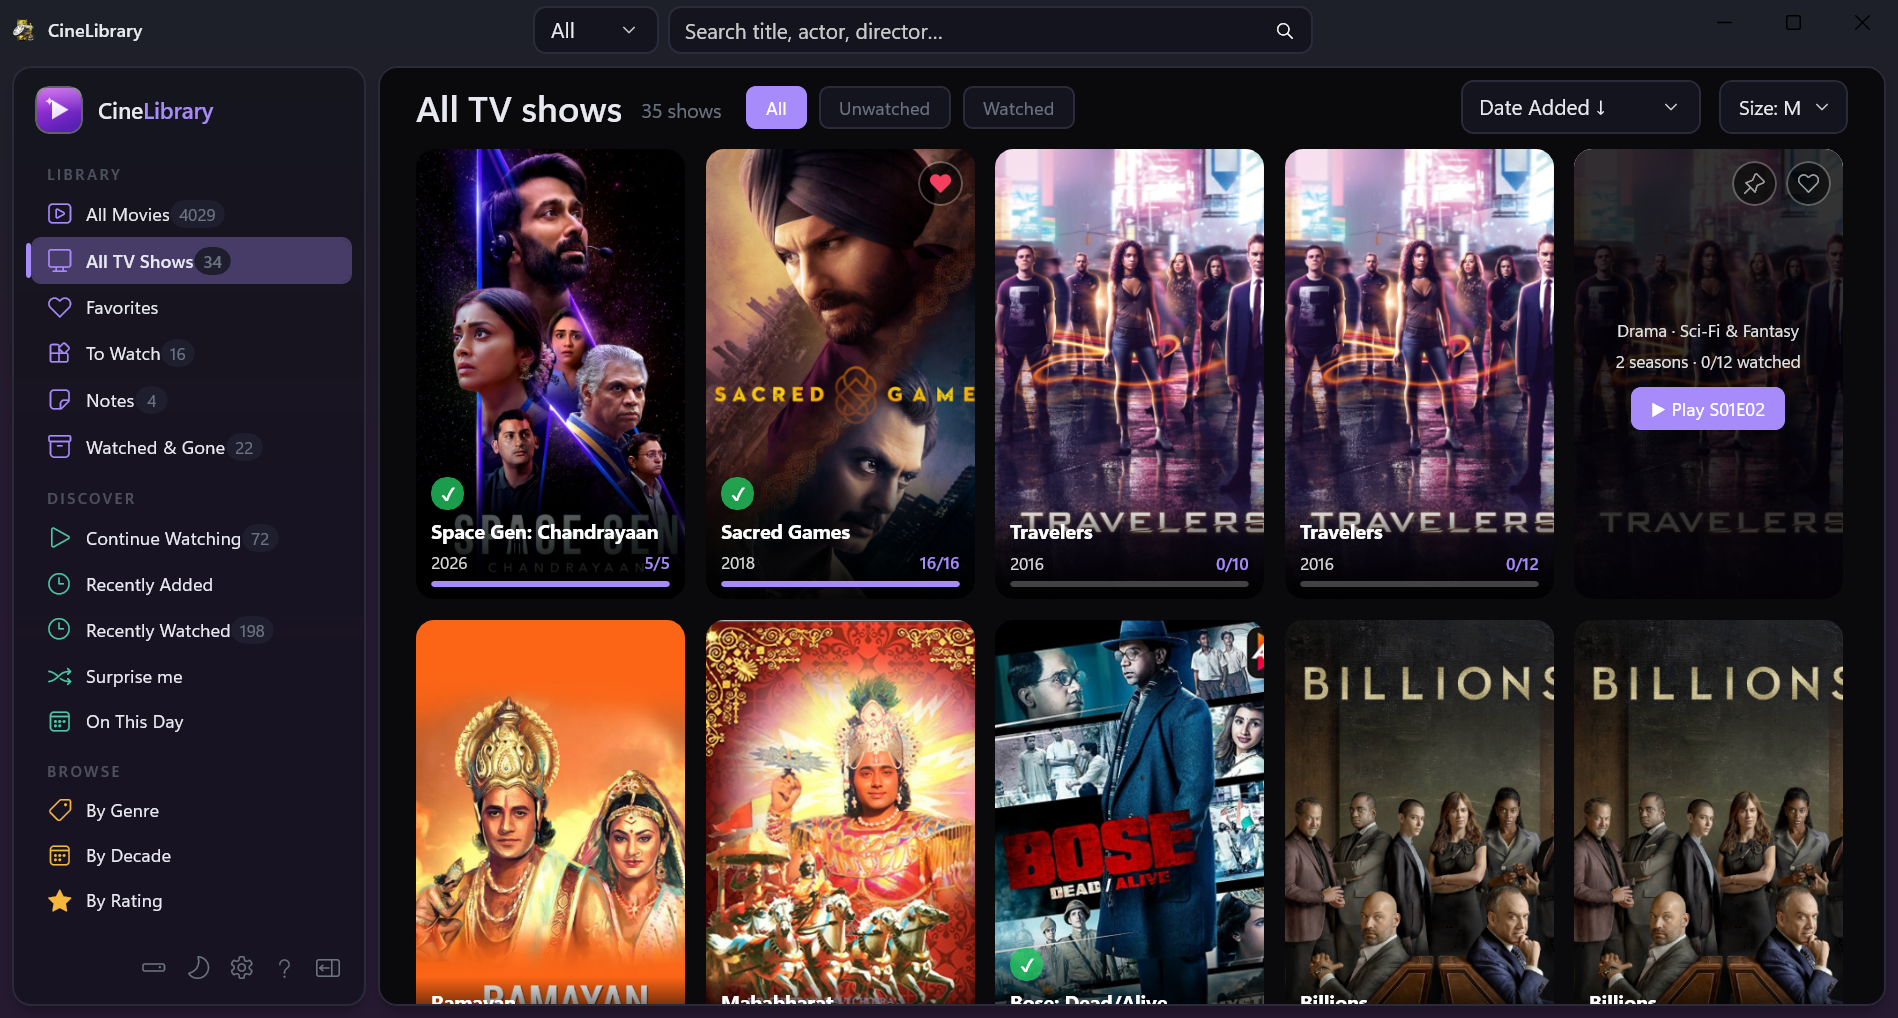
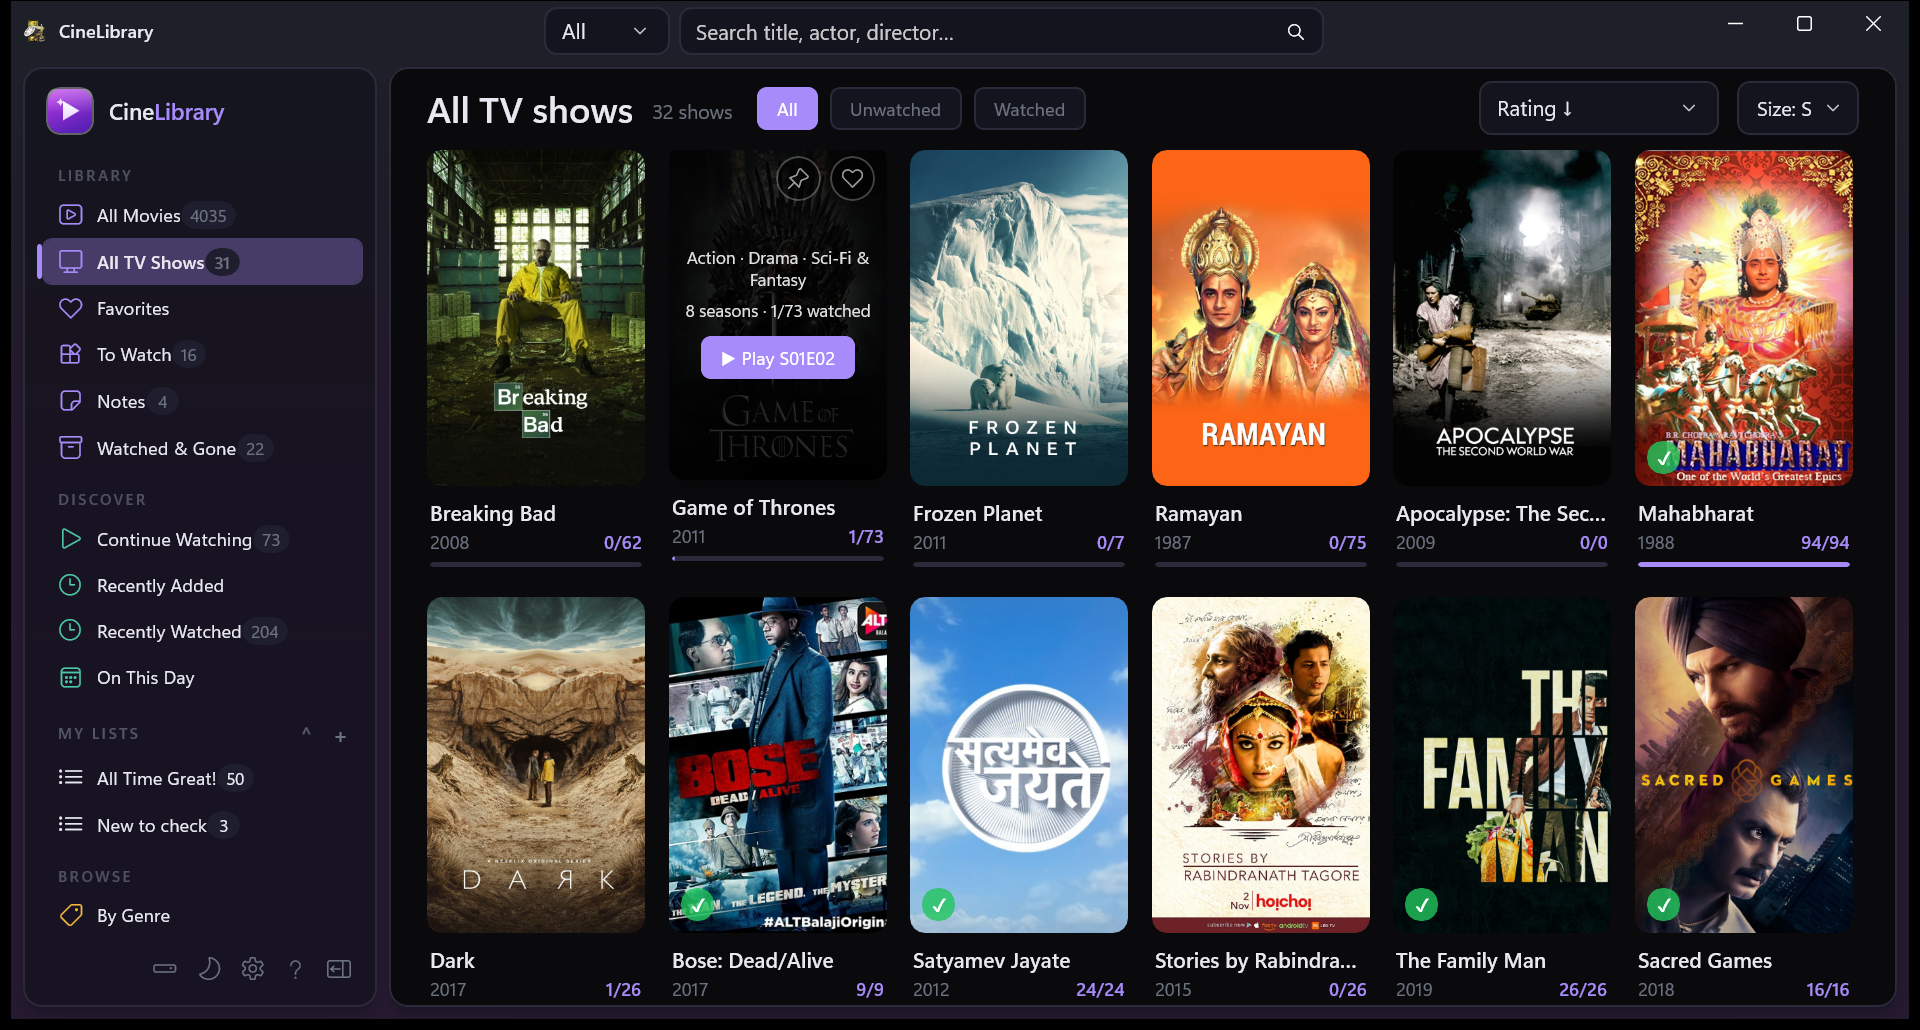
CineLibrary 4.8.0: new poster cards and a Statistics page, new screenshots

diff --git a/cinelibrary/index.html b/cinelibrary/index.html
@@ -30,7 +30,7 @@
     </p>
     <div class="actions">
       <a class="btn btn-primary" data-dl data-repo="aungkokomm/CineLibraryCS" href="https://github.com/aungkokomm/CineLibraryCS/releases/latest" target="_blank" rel="noopener">
-        ⬇ Download v4.7.1
+        ⬇ Download v4.8.0
       </a>
       <a class="btn btn-ghost" href="https://github.com/aungkokomm/CineLibraryCS/blob/main/docs/USER_GUIDE.md" target="_blank" rel="noopener">
         📖 User Guide
@@ -55,21 +55,32 @@
 <section class="section">
   <div class="container">
     <div class="shot">
-      <img src="../assets/img/cinelibrary-library.png" alt="CineLibrary in dark theme: the All Movies poster grid, the sidebar and the title-bar search">
+      <img src="../assets/img/cinelibrary-library.png" alt="CineLibrary in dark theme: the All Movies poster cards, newest first, with the title, year, length and rating under each poster, the sidebar and the title-bar search">
     </div>
     <div class="shot" style="margin-top:24px">
-      <img src="../assets/img/cinelibrary-tv-hover.png" alt="CineLibrary's All TV shows page: show posters in a grid, with the hover panel open on Travelers showing its genres, seasons, watched count, Play S01E02, and Watchlist and Favorite icons in the corner; Sacred Games has a heart">
+      <img src="../assets/img/cinelibrary-tv-hover.png" alt="CineLibrary's All TV shows page: show posters in a grid, with the hover panel open on Game of Thrones showing its genres, seasons, watched count, Play S01E02, and Watchlist and Favorite icons">
     </div>
     <div class="shot" style="max-width:900px;margin:24px auto">
-      <img src="../assets/img/cinelibrary-tv-show.png" alt="A TV show page in CineLibrary: The Family Man fanart banner with IMDb and TMDb buttons, the poster, details, the drive it is on, Play next and the other buttons, and cast photo cards">
+      <img src="../assets/img/cinelibrary-tv-show.png" alt="A TV show page in CineLibrary: the Game of Thrones fanart banner, the poster with its IMDb and TMDb ratings under it, details, Play next and the other buttons, the cast, the season buttons and the first episode">
     </div>
   </div>
 </section>
 
 <section class="section">
   <div class="container">
-    <h2>What's new in v4.6: missing episodes and IMDb ratings ⭐</h2>
-    <p style="opacity:0.8;margin-bottom:1rem">Everything <a href="../cinelibraryessentials/">CineLibrary Essentials</a> writes now shows, your whole library can get its IMDb ratings, and fetched pictures go onto your drives.</p>
+    <h2>What's new in v4.8: new poster cards and a Statistics page 📊</h2>
+    <p style="opacity:0.8;margin-bottom:1rem">A new look for your posters and show pages, a Statistics page full of your library, and Fetch missing info that writes to your <code>.nfo</code> files.</p>
+
+    <h3 style="margin-top:1.5rem">🎬 v4.8.0: new poster cards and a Statistics page</h3>
+    <ul class="checklist">
+      <li><strong>New poster cards:</strong> the whole poster, with the title, year, length and rating under it. Cards get a NEW tag for the last two weeks' additions, 4K / HDR / DV tags, and a stand-in poster when there's none. Each can be turned off in Settings.</li>
+      <li><strong>A new Statistics page:</strong> picture quality, space per drive, sound and video formats, decades, ratings, genres, countries, collections, your TV shows, what you watched each month, your most-seen actors and directors, and the best-rated movies you haven't watched. Click any of them to see those movies.</li>
+      <li><strong>The TV show page lists its episodes</strong> one row each, with a bigger picture, the plot, and Favorite and Watched buttons. Season buttons show their episode counts, with Play season beside them.</li>
+      <li><strong>Movie details open inside the main window,</strong> with a Library button to go back.</li>
+      <li><strong>Fetch missing info writes to the movie's <code>.nfo</code></strong> the way Kodi keeps it, filling only empty tags, and works on many movies at once. Missing cast in Tools lists the movies with one actor or none.</li>
+      <li><strong>Recently Added and By Genre include TV shows,</strong> and Settings and Keyboard shortcuts are easier to read.</li>
+      <li><strong>Fixes:</strong> right-clicking the search box shows Cut, Copy and Paste, movies without a runtime show their length from the video file, and sorting puts movies without a rating or length last.</li>
+    </ul>
 
     <h3 style="margin-top:1.5rem">🩹 v4.7.1: a small fix</h3>
     <ul class="checklist">
@@ -104,27 +115,27 @@
       <li>Using CineLibrary Essentials? Update it to <strong>1.3.1</strong> too, for the cast of every season and one card per show.</li>
     </ul>
 
-    <h3 style="margin-top:1.5rem">📺 A fuller show page</h3>
+    <h3 style="margin-top:1.5rem">📺 Also recent: a fuller show page (v4.6.0)</h3>
     <ul class="checklist">
       <li><strong>Missing episodes:</strong> the aired episodes you don't have appear greyed in their season, with the air date, and seasons you have none of are listed. Specials and episodes that haven't aired never count. Settings can turn the check off.</li>
       <li><strong>IMDb and TMDb ratings</strong> with their votes, IMDb in gold and TMDb in green.</li>
       <li><strong>Created by, every studio and network, the country, the tagline</strong> and how long an episode is.</li>
     </ul>
 
-    <h3 style="margin-top:1.5rem">⭐ IMDb ratings for your whole library</h3>
+    <h3 style="margin-top:1.5rem">⭐ Also recent: IMDb ratings for your whole library (v4.6.0)</h3>
     <ul class="checklist">
       <li><strong>Update IMDb ratings</strong> on the Drives page gets the IMDb rating and votes of every movie and show in one go, and makes IMDb the main ★.</li>
       <li><strong>Older <code>.nfo</code> files with only a TMDb id</strong> get their IMDb id from TMDb first.</li>
       <li><strong>Written into each <code>.nfo</code>,</strong> changing only the ratings: on connected drives now, on the others when you plug them in.</li>
     </ul>
 
-    <h3 style="margin-top:1.5rem">🎬 More in the movie window</h3>
+    <h3 style="margin-top:1.5rem">🎬 Also recent: more in the movie window (v4.6.0)</h3>
     <ul class="checklist">
       <li><strong>The edition</strong> (Director's Cut, Extended, IMAX), <strong>every studio and country</strong>, and a <strong>🎞 Trailer</strong> button.</li>
       <li><strong>Tags from your <code>.nfo</code> files</strong> beside your own, and <strong>Reload from .nfo</strong> to see an edit from CineLibrary Essentials at once.</li>
     </ul>
 
-    <h3 style="margin-top:1.5rem">💾 Fetched pictures on your drives</h3>
+    <h3 style="margin-top:1.5rem">💾 Also recent: fetched pictures on your drives (v4.6.0)</h3>
     <ul class="checklist">
       <li><strong>After Fetch missing info,</strong> the poster, fanart and cast photos are copied into the movie's or show's folder. A drive that isn't connected gets them the next time you plug it in. Files already there are never replaced.</li>
     </ul>

diff --git a/index.html b/index.html
@@ -183,7 +183,7 @@
         <p>Catalog and browse your movies and TV shows across multiple external drives.</p>
         <div class="meta">
           <span class="tag">C# · WinUI 3</span>
-          <span class="version-pill">v4.7.1</span>
+          <span class="version-pill">v4.8.0</span>
           <a class="card-dl" href="https://github.com/aungkokomm/CineLibraryCS/releases/latest" aria-label="Download CineLibrary">⬇ Download</a>
         </div>
       </div>
